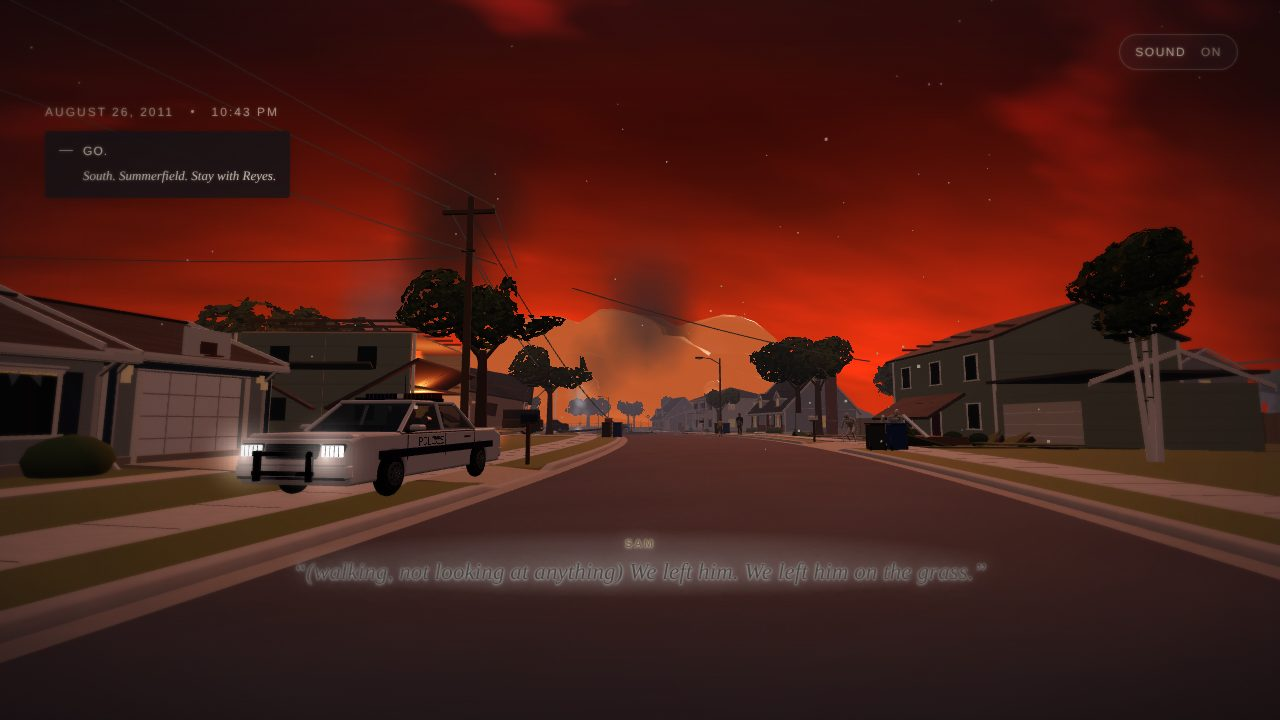
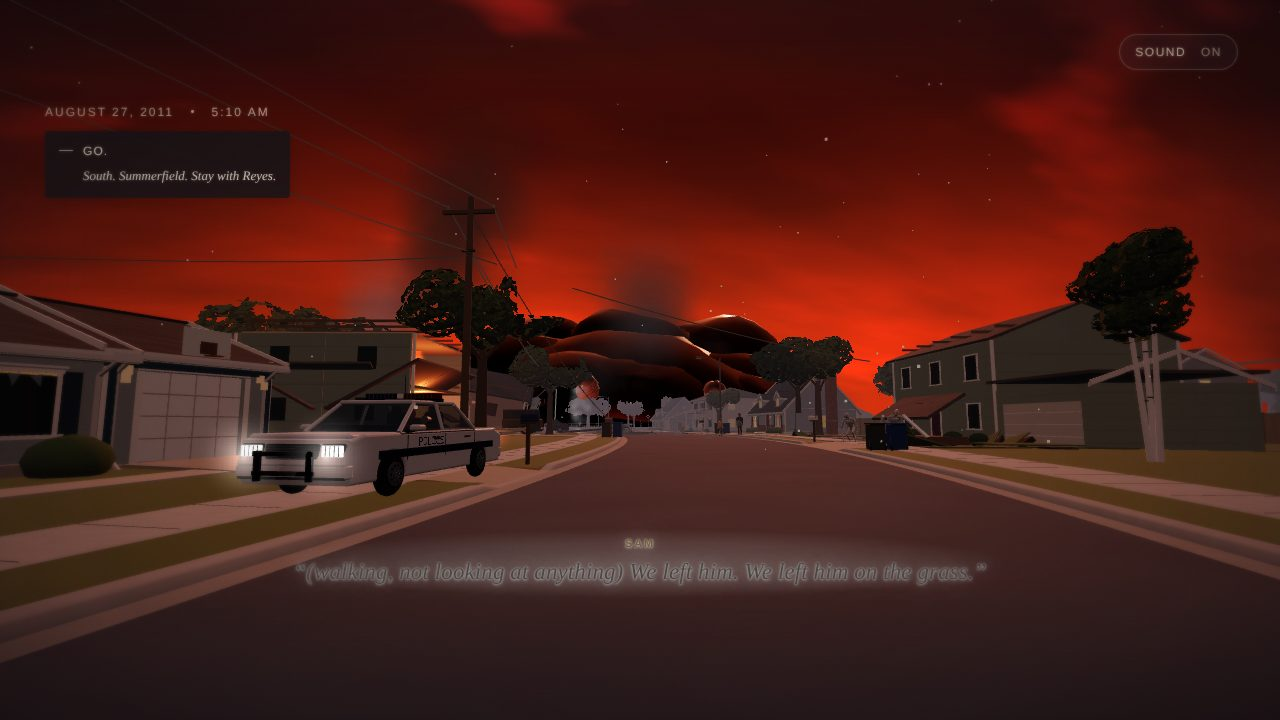
Chapter Eight reconstruction: the breach strengthened; the friends watch the drag; before/after captures and review; DEV known-difference reporting; perf per moment
- The breach: two more limbs come through (one out of the far wall, one along the floor), the chamber's
  lamps fail, and when the limb hits the long windows they break in (glass, the alarm light).
- Sam and Alex turn to watch as the hunter takes Jamie (they faced the camera).
- docs/qa/chapter8-reconstruction/after/: the same fifteen moments as the baseline audit, captured in this
  build; VISUAL_REVIEW.md compares them row by row (three rows are honestly 'not rebuilt').
- tests/dev-chapters-sim.mjs: DEV_KNOWN=2/alex-bike reports a difference known before this work instead of
  stopping on it, so the scenes compared after it and the switching checks still run.
- tests/chapter8-perf.mjs: one browser per moment (one long software-GL session ran out of memory).

Claude-Session: https://claude.ai/code/session_01PuwzF4vprsiVDAz12NRA4H

Changed region(s): [[0.3438, 0.4278, 0.625, 0.6111], [0.0938, 0.6111, 0.1875, 0.6417], [0.1875, 0.1528, 0.2188, 0.1833]]

diff --git a/dist/chapter8-fall.js b/dist/chapter8-fall.js
@@ -72,8 +72,12 @@ export function fallActs(X){
     CM.barrier.children.forEach((r2,i)=>{if(i<9&&i%2===0){r2.rotation.x=-.25-Math.random()*.2;r2.position.z=85-1.2;}});
     presence.set(0,{root:[W(1,86,-4).x,-4,W(1,86,-4).z],dir:[0,.1,-1],len:22,r0:3.4,r1:.6,state:'emerge',speed:1.4});presence.set(1,{root:[W(-6,86,0).x,0,W(-6,86,0).z],dir:[.2,-.1,-1],len:18,r0:2.6,r1:.5,state:'emerge',speed:1.2});
     presence.set(2,{root:[W(1,74,-14).x,-14,W(1,74,-14).z],dir:[0,1,0],len:20,r0:3,r1:.7,state:'emerge',speed:1});
+    later(1.4,()=>{presence.set(3,{root:[W(-9,84,-6).x,-6,W(-9,84,-6).z],dir:[.5,.6,-1],len:24,r0:2.6,r1:.5,state:'probe',probe:[W(-4,58,0).x,0,W(-4,58,0).z],speed:1.3});presence.impact(W(-9,84,-4),{n:20,power:1.4});sound('c8Rip',W(-9,84,-4),{gain:1.4});});
+    later(2.6,()=>{presence.set(4,{root:[W(9,86,-3).x,-3,W(9,86,-3).z],dir:[-.4,.4,-1],len:22,r0:2.4,r1:.5,state:'probe',probe:[W(6,60,1).x,1,W(6,60,1).z],speed:1.2});presence.impact(W(9,86,-2),{n:18,power:1.3});C.shake=.8;});
+    // (the chamber's cold lamps going, one, then the other: then only what light comes through from the hall)
+    later(3.2,()=>{light(5,W(1,70,7),{intensity:420,dist:60,color:0xa8bcd8,flicker:.9});});later(5.4,()=>{light(5,W(1,70,7),{intensity:90,dist:50,color:0x8899aa,flicker:1});});
     yield* lines([N('The ribs break outward. Something comes through after them, wet and dark and the width of a road, and doesn’t end.',{time:4.4}),AL('That’s it. That’s IT.',{time:1.4,face:'terrified'}),R('MOVE. Everybody MOVE.',{time:1.4})]);
-    later(1.5,()=>{presence.strike(0,W(4,54,-2),{onLand:p=>{sound('c7Glass',W(5,52,-1.5),{gain:1.6});C.shake=1;}});});
+    later(1.5,()=>{presence.strike(0,W(4,54,-2),{onLand:p=>{sound('c7Glass',W(5,52,-1.5),{gain:1.6});sound('c8Glass',W(4,52,-1.5),{gain:1.4});C.shake=1.2;presence.impact(W(4,52.4,-1.6),{n:30,power:1.6});CM.ST.hwin=1;light(5,null);light(4,W(4,48,1.6),{intensity:6,dist:14,color:0xff2a1a,flicker:.6});T?.jolt?.(1,{rise:1,hold:12,why:'it came through the window'});}});});
     yield* wait(2.2);
     // the hunter: out of the chamber, past them in the hall, not after anyone: getting away from it
     HM.show(true);H.reset();HM.show(true);H.place(W(-6,48).x,W(-6,48).z,0);H.script([{to:()=>[W(-6,40).x,W(-6,40).z],speed:5,state:'run',free:true},{to:()=>[W(-4,34).x,W(-4,34).z],speed:5,state:'run',free:true},{act:()=>{HM.show(false);H.reset();}}]);

diff --git a/dist/chapter8-street.js b/dist/chapter8-street.js
@@ -259,6 +259,8 @@ export function streetActs(X){
    // it comes up out of the hole's end, in the side yard: between you and him. It doesn't look at you. It wants him
    HM.show(true);H.reset();HM.show(true);const up=HD.up;H.place(up.x,up.z,headingTo(up.x,up.z,sd.x,sd.z));C.huntRise=1.5;HM.setState('crawl');sound('c7Snarl',V3(up),{gain:1.6});C.shake=.5;mark('it came up in the side yard');
    H.script([{wait:1.3,state:'peek',low:.6,look:()=>V3(sd)},{to:()=>[lerp(up.x,sd.x,.45),lerp(up.z,sd.z,.45)],speed:1,state:'stalk',low:.5,free:true}]);
+   // (Sam and Alex at the end of the hole, turned to it, watching; Sam half a step toward it, Alex back)
+   {const jw=()=>V3({x:jamie.px,z:jamie.pz});stand(sam,SP(1012.4,8.4),{look:jw,max:4});if(X.alex)stand(X.alex,SP(1010.2,6.6),{look:jw,max:4,gesture:ACT.shake(ACT.hug(null),{k:1})});feel(sam,'anguish',12);if(X.alex)feel(X.alex,'horror',12);}
    yield* lines([SM('JAMIE! JAMIE, IT’S IN THE YARD— IT’S COMING—',{time:2,face:'anguish'}),Y('JAMIE! LET GO! RUN!',{time:1.4}),J('NOT YET! He’s not through! NOT YET!',{time:1.8,face:'terrified'})]);
    reyes.walk([[HD.watch.x+.8,HD.watch.z-.6]],{speed:3.4,then:()=>{reyes.gest('point',V3(HM.root.position));}});later(1.2,()=>{C.reyesFire=true;});
    objective('Jamie.','');

diff --git a/docs/qa/chapter8-reconstruction/VISUAL_REVIEW.md b/docs/qa/chapter8-reconstruction/VISUAL_REVIEW.md
@@ -16,8 +16,7 @@ artefact of the capture placing the camera on foot during the ride.
 
 ## 1. The fifteen baseline moments
 
-See §3 for the table (filled from `after/shots.json` once captured; each row says what the frame shows now and whether
-the draft's problem is gone).
+See §3: each row compares `before/<name>.jpg` with `after/<name>.jpg` and says whether the draft's problem is gone.
 
 ## 2. The new beats, looked at
 
@@ -50,7 +49,35 @@ the draft's problem is gone).
 
 ## 3. Before → after, the fifteen moments
 
-(Filled from `after/` below.)
+| Shot | Before (the draft) | After (this build) | Problem gone? |
+|---|---|---|---|
+| `sam-out` | A dark figure in a black room; the containment consequence only a caption. | Sam swaying in front of you, his face close, grabbing your arm ("like you might not be real either"); the objective is the flood door. Still very dark: the wing is unlit and the capture had the flashlight off. | Partly. The moment exists and is physical; the frame is too dark to read without the flashlight. |
+| `jamie-out` | An empty olive corridor; nobody in frame. | The retrieval wing: Sam crouched by the grille, the hunter far down the corridor under a lamp, bolts to throw, Jamie telling you to go. | Yes. |
+| `alex-door` | A striped door in a plain box room. | The room it made for Alex (panelling, the poster), your light on the closet door, "Alex. It's us. It's really—". | Partly: the room is still plain at this angle; the change is in what happens there. |
+| `alex-out` | Identical to `alex-door`. | The room coming apart round Alex: the paper coming off the walls in sheets, something pale grown on the concrete behind, the lamp going out. | Yes. |
+| `reunion` | Four boys standing stiffly round a table. | Sam and Alex in chairs, Jamie on the floor against the lockers, the lamp, silence. | Yes (poses differ; faces still small at this distance). |
+| `breach` | A smooth dark cylinder with two tube limbs ("plumbing"). | Plated, segmented limbs with long fingers coming through the chamber from several sides; the lamps failing. | Yes for the creature; the plug is still the same drum. |
+| `escape` | A dark doorway; the event carried by a caption. | Same staging (the jammed bulkhead), unchanged by the reconstruction. | No (not rebuilt). |
+| `street` | "The road isn't there" over an intact, peaceful street. | The road broken open along the storm line (slabs, the crack, steam), the collapsed porch, the house that leans, under the red deck. | Yes. |
+| `jamie-death` | A black pit; Jamie and the hunter tiny or off-frame. | Sam (anguish), Alex (shock) and Mr. Henderson in front; behind them, the hunter at the garage's side door with Jamie lifted off the ground. The friends faced the camera in this capture; they now turn to watch. | Mostly. The act is on screen; it is small in this framing (a player running at it sees it closer). |
+| `jamie-after` | A small shape on a far lawn; no one near. | Reyes on his knees doing CPR over Jamie at the edge of the hole. | Yes. |
+| `gates` | Dark bridge, a handwheel, flat water. | Same mechanics; Alex shouting about the water. | No (not rebuilt). |
+| `plug` | A plain cylinder, rounded blobs under the catwalk. | The plug drum; plated, clawed limbs reaching up at the catwalk; Sam beside you. | Partly (the creature yes; the structure is the draft's). |
+| `hatch` | The camera inside a ladder shaft; Alex's injury a caption ("a whole slab"). | Alex face down across the hatch's rim, the lid across his back, his arms out on the grass; Sam and Reyes kneeling. | Yes. |
+| `alex-death` | Daylight; Alex upright and unhurt-looking, neutral face. | Your view sitting in front of them at dawn: Sam with tear tracks and red eyes holding his hand, Alex heavy-lidded and pale against the oak. | Yes. |
+| `ride` | Sam on a bike on a pristine street. | Sam on his bike beside you, crying, a grey dawn; the street behind shows smoke and the burned houses (`after-finale/ride-back.jpg`). | Yes. |
+
+The three rows marked "No" are the parts of the chapter this reconstruction did not rebuild (the escape, the gates; the
+plug's structure). They are listed as limitations in `docs/CHAPTER8_RECONSTRUCTION_HANDOFF.md`.
+
+## 3b. The creatures and the skyline (after the fixes)
+
+| Frame | What it shows |
+|---|---|
+| `after-street/made-grin.jpg` | One of the made things up close: pale, too thin, too long in the arm, a wide black smile with teeth and dark eye sockets; the thing's body on the skyline behind it. Reads as uncanny; the stand-in model's jointed limbs read a little like a mannequin. |
+| `after-street/made-three.jpg` | Two made things crouched and the second hunter, together on the cul-de-sac. |
+| `after-street/sky-hend.jpg` | From the Hendersons': the thing's body on the skyline, a dark hill of folds rimmed red, filling the end of the street behind the houses, smoke going up; the friends and Reyes walking. |
+| `after-street/sky-cul.jpg`, `sky-sams.jpg`, `sky-south.jpg` | The same sky from the cul-de-sac, from Sam's and from the south end. |
 
 ## 4. Problems found by looking, and what was done
 
@@ -60,6 +87,9 @@ the draft's problem is gone).
 2. **Alex invisible at the oak and in the well** (enlisted but never put on his feet). Fixed.
 3. **Sam standing at the oak** (the grief slump re-applied a standing pose over the scene's sitting one). Fixed.
 4. **Your own bike parked in shot** in the field. Fixed.
-5. **The skyline creature read as a pale grey boulder.** It now has its own dark material lit red from underneath.
+5. **The skyline creature read as a pale grey boulder, its limbs as glowing salmon worms.** The Presence's rim-light term
+   had its sign inverted (every surface facing the camera got the full rim glow; under the court too). Fixed, and the
+   skyline instance has its own dark material lit red from underneath.
 6. **The ride under a clear blue sky.** Now a low, smoky dawn with the red going out of it.
 7. **Jamie not in the side doorway; a crane-like plank in the air.** Fixed (placed; a real header).
+8. **Sam and Alex faced the camera while Jamie was being dragged.** They now stand at the end of the hole turned to it.
